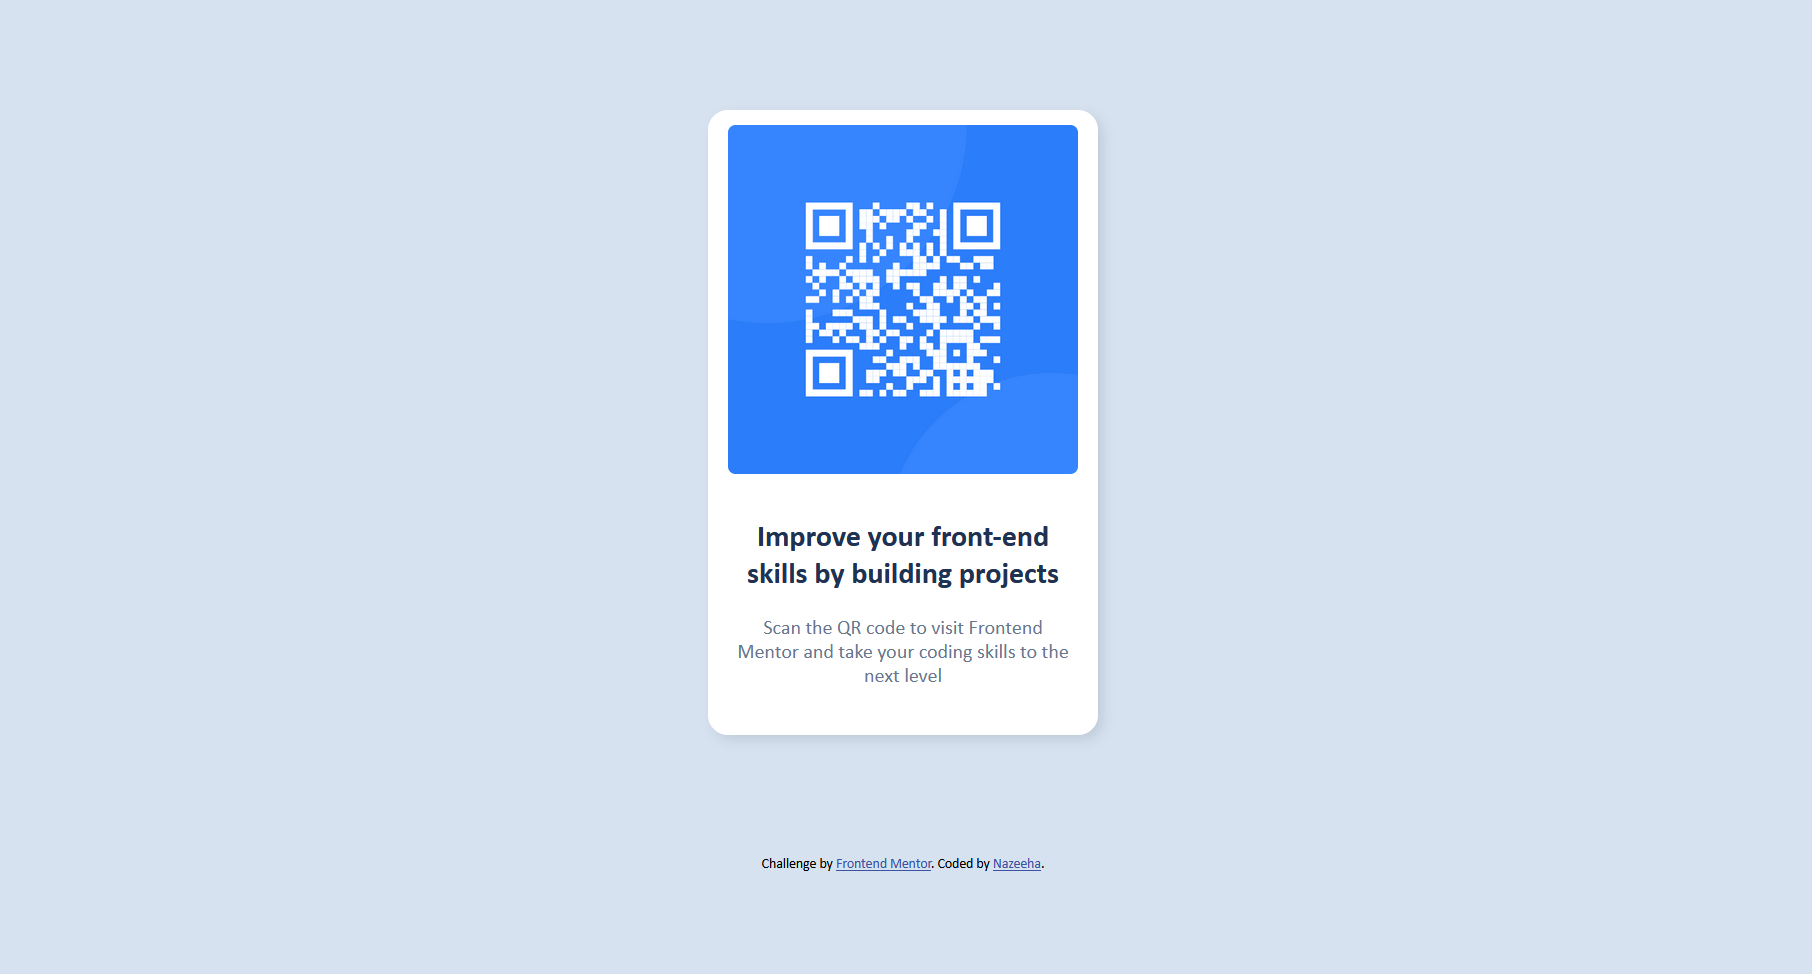
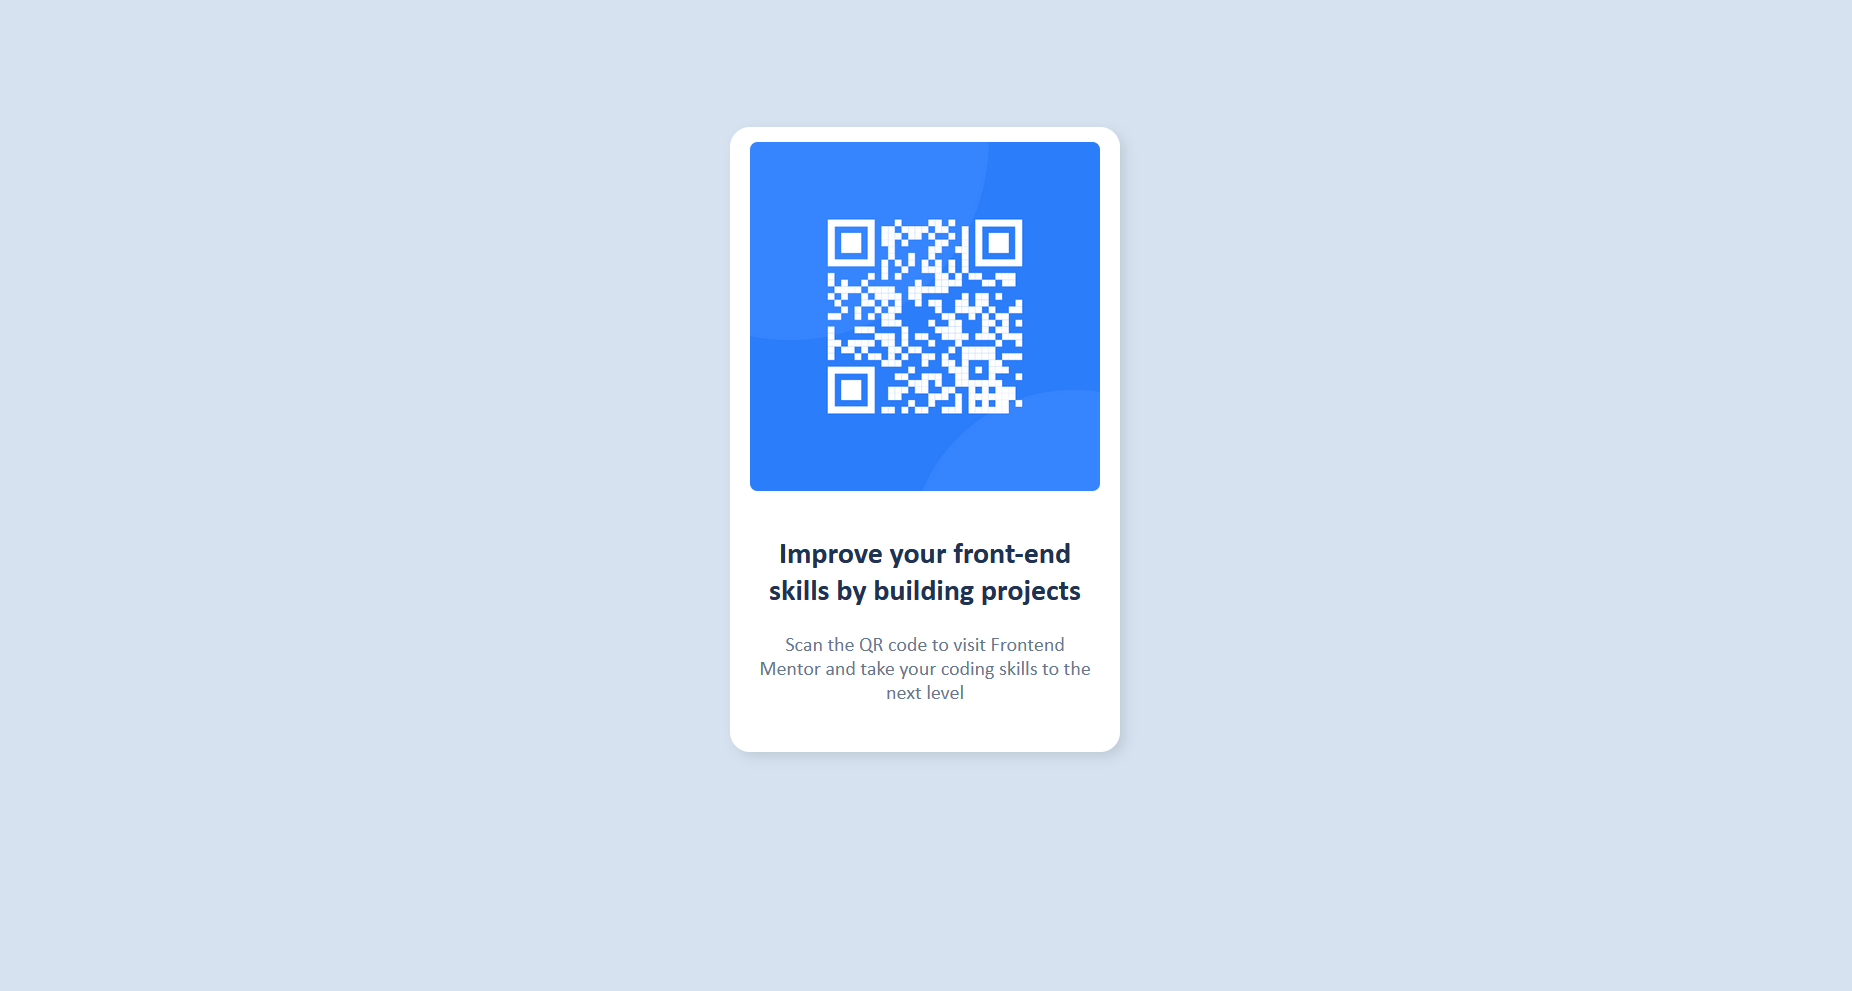
update: changed ss and updated index.html

Changed region(s): [[0.3709, 0.0924, 0.6181, 0.7392], [0.4018, 0.7392, 0.5872, 0.77], [0.4327, 0.8624, 0.5872, 0.8932]]

diff --git a/index.html b/index.html
@@ -32,12 +32,5 @@
         </div>
       </div>
     </div>
-
-    <div class="attribution">
-      Challenge by
-      <a href="https://www.frontendmentor.io?ref=challenge" target="_blank"
-        >Frontend Mentor</a
-      >. Coded by <a href="https://www.frontendmentor.io/profile/nazeeha-kb">Nazeeha</a>.
-    </div>
   </body>
 </html>
